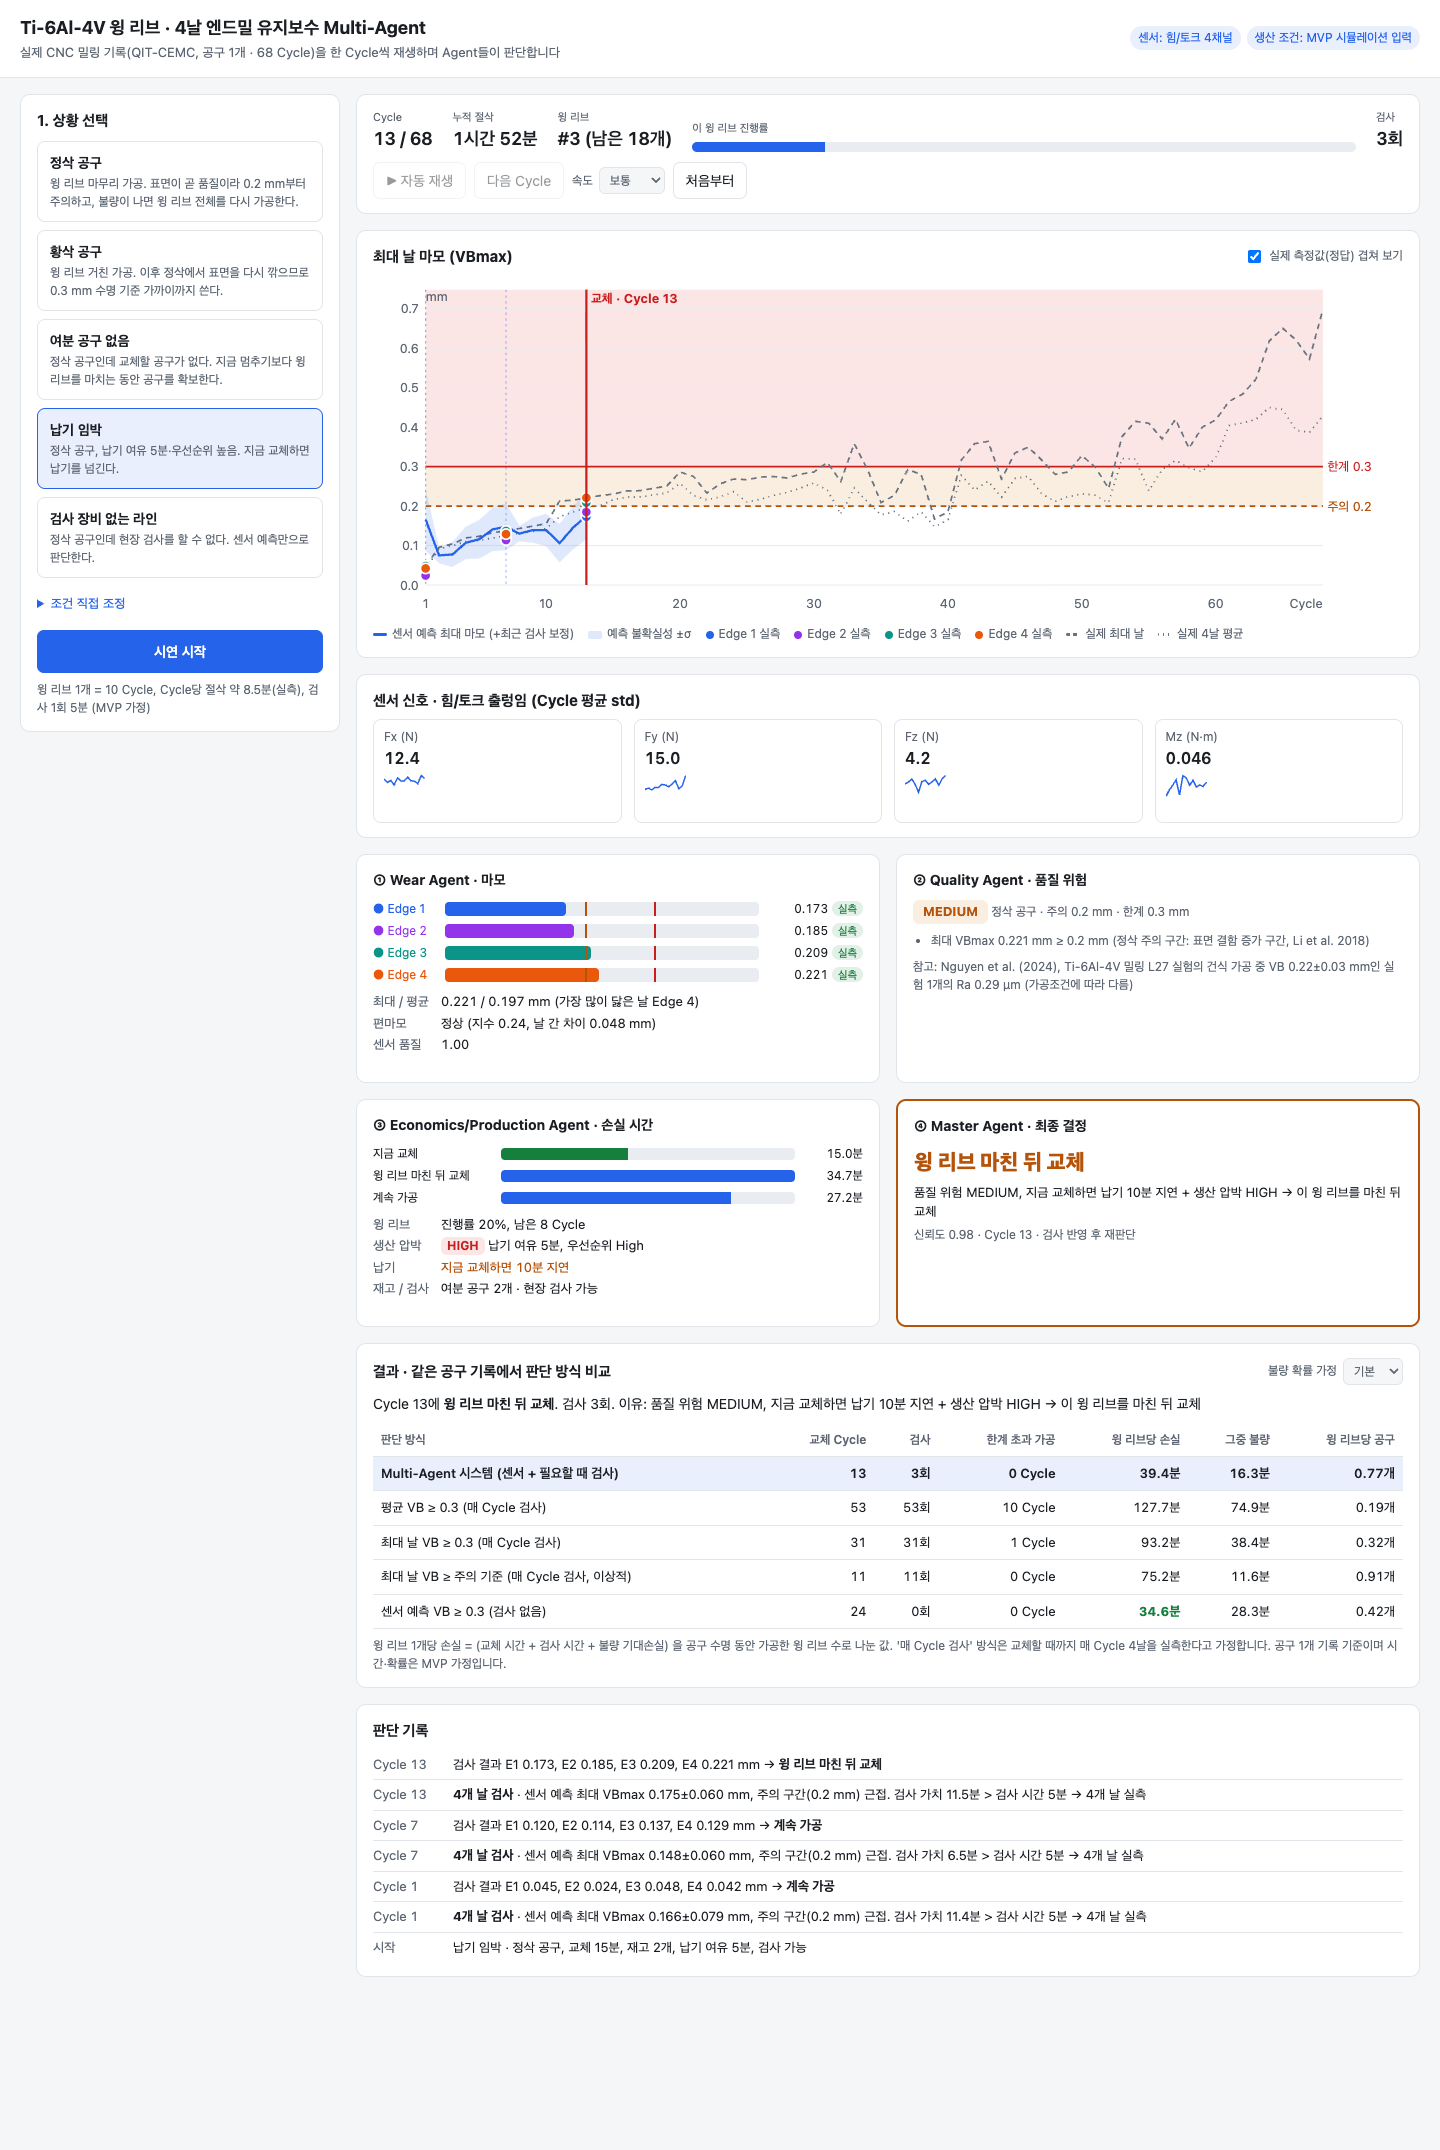
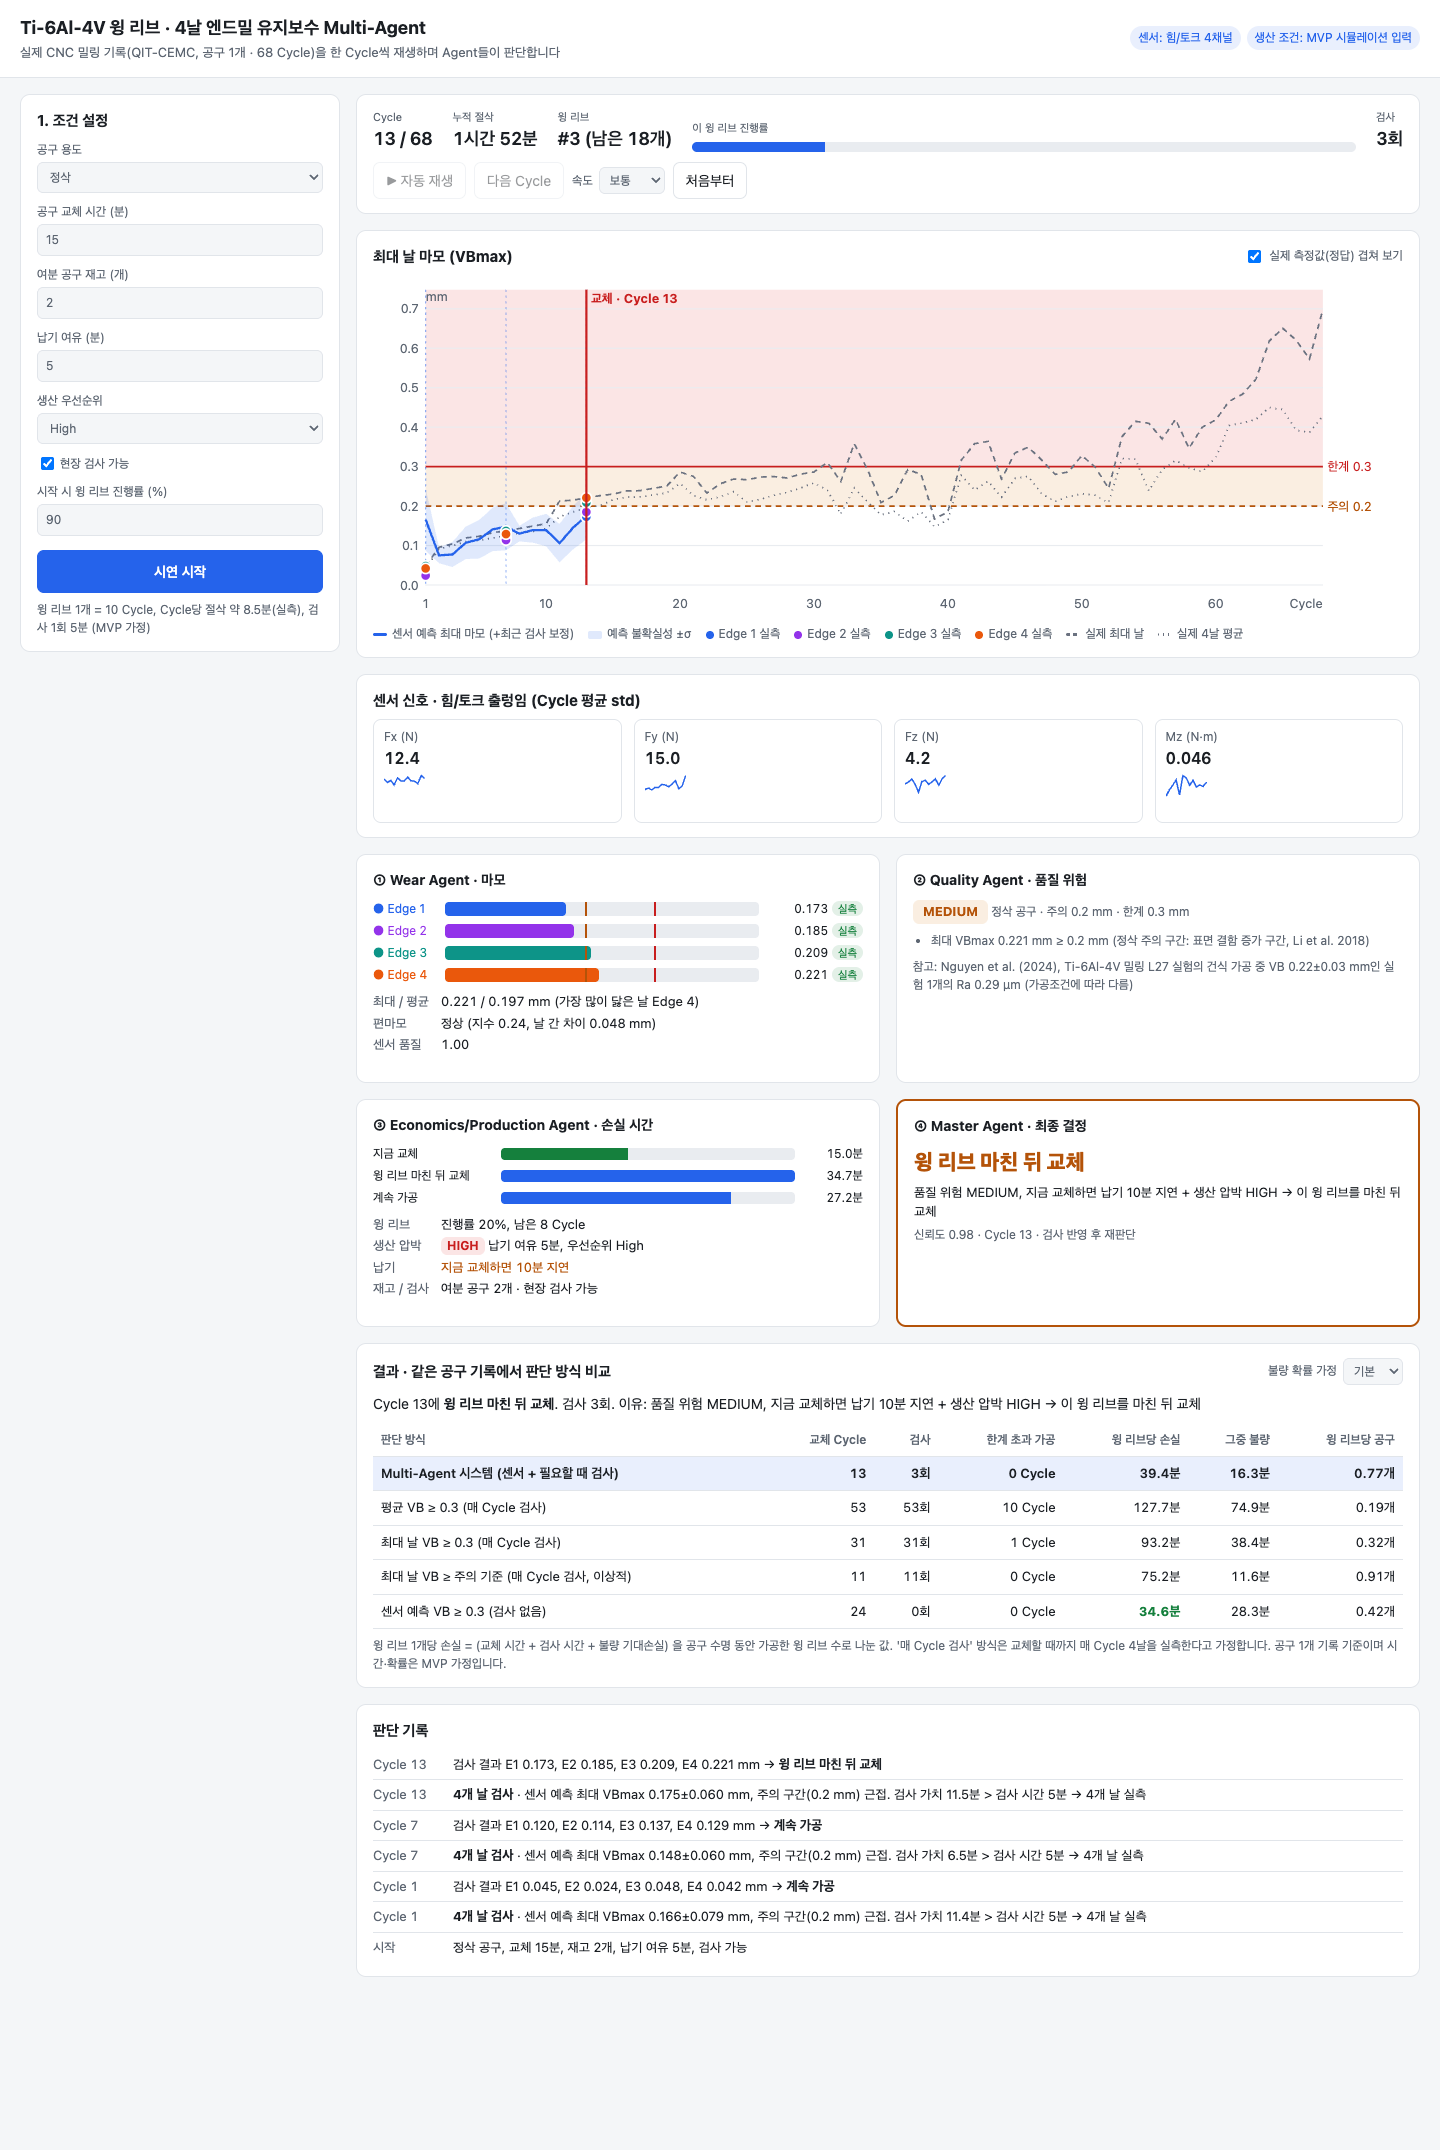
Web: replace preset list with an always-open condition form
- Tool purpose shows only 정삭/황삭; other fields default to the finishing scenario
- Chart caution line follows the selected tool purpose before starting
- Refresh README, verification record, and screenshots

Changed region(s): [[0.0, 0.0312, 0.25, 0.3428]]

diff --git a/src/web/static/app.js b/src/web/static/app.js
@@ -46,8 +46,7 @@ const S = {
 
 async function init() {
   S.meta = await api("GET", "/api/presets");
-  renderPresets();
-  selectPreset(S.meta.default);
+  fillDefaults();
   $("#startBtn").onclick = start;
   $("#stepBtn").onclick = () => step().catch(showError);
   $("#playBtn").onclick = togglePlay;
@@ -55,28 +54,15 @@ async function init() {
   $("#truthToggle").onchange = renderWearChart;
   $("#scale").onchange = renderComparison;
   $("#inspForm").onsubmit = submitInspection;
+  $("#customForm").elements.tool_purpose.onchange = () => { if (!S.sid) renderWearChart(); };
   renderWearChart();
   renderSensors();
 }
 
-function renderPresets() {
-  const box = $("#presets");
-  box.innerHTML = "";
-  for (const p of S.meta.presets) {
-    const b = document.createElement("button");
-    b.className = "preset";
-    b.setAttribute("role", "radio");
-    b.dataset.id = p.id;
-    b.innerHTML = `<strong>${p.name}</strong><span>${p.description}</span>`;
-    b.onclick = () => selectPreset(p.id);
-    box.appendChild(b);
-  }
-}
-
-function selectPreset(id) {
-  S.presetId = id;
-  document.querySelectorAll(".preset").forEach((b) => b.setAttribute("aria-checked", b.dataset.id === id));
-  const ctx = S.meta.presets.find((p) => p.id === id).context;
+// 조건 입력란을 기본 상황(정삭 공구 프리셋)의 값으로 채운다
+function fillDefaults() {
+  S.presetId = S.meta.default;
+  const ctx = S.meta.presets.find((p) => p.id === S.presetId).context;
   const f = $("#customForm");
   for (const key of ["tool_purpose", "change_time_min", "tool_stock", "due_slack_min", "production_priority", "process_progress_pct"]) {
     f.elements[key].value = ctx[key];
@@ -108,7 +94,7 @@ async function start() {
     if (!S.truth) S.truth = await api("GET", "/api/truth");
     setControls(true);
     const c = res.context;
-    addLog("시작", `${S.meta.presets.find((p) => p.id === S.presetId).name} · ${purposeLabel(c.tool_purpose)} 공구, 교체 ${c.change_time_min}분, ` +
+    addLog("시작", `${purposeLabel(c.tool_purpose)} 공구, 교체 ${c.change_time_min}분, ` +
       `재고 ${c.tool_stock}개, 납기 여유 ${c.due_slack_min}분, 검사 ${c.inspection_available ? "가능" : "불가"}`);
   } catch (e) {
     showError(e);
@@ -257,7 +243,7 @@ function renderWearChart() {
   const total = S.meta?.total_cycles ?? 68;
   const showTruth = $("#truthToggle").checked && S.truth;
   const ctx = S.records.at(-1)?.context;
-  const purpose = ctx?.tool_purpose ?? S.meta?.presets.find((p) => p.id === S.presetId)?.context.tool_purpose ?? "finishing";
+  const purpose = ctx?.tool_purpose ?? $("#customForm")?.elements.tool_purpose.value ?? "finishing";
   const caution = S.meta?.tool_purposes[purpose]?.caution_vb_mm ?? 0.2;
   const limit = S.meta?.vb_limit_mm ?? 0.3;
 

diff --git a/src/web/static/index.html b/src/web/static/index.html
@@ -21,16 +21,12 @@
 
   <div class="layout">
     <aside class="setup" id="setup">
-      <h2>1. 상황 선택</h2>
-      <div id="presets" class="presets" role="radiogroup" aria-label="시연 프리셋"></div>
-
-      <details id="custom" class="custom">
-        <summary>조건 직접 조정</summary>
-        <form id="customForm" class="form">
+      <h2>1. 조건 설정</h2>
+      <form id="customForm" class="form">
           <label>공구 용도
             <select name="tool_purpose">
-              <option value="finishing">정삭 (주의 0.2 mm, 불량 시 윙 리브 전체 재가공)</option>
-              <option value="roughing">황삭 (주의 0.25 mm, 불량 시 1 Cycle 재가공)</option>
+              <option value="finishing">정삭</option>
+              <option value="roughing">황삭</option>
             </select>
           </label>
           <label>공구 교체 시간 (분) <input name="change_time_min" type="number" min="1" max="120" step="1"></label>
@@ -41,8 +37,7 @@
           </label>
           <label class="check"><input name="inspection_available" type="checkbox"> 현장 검사 가능</label>
           <label>시작 시 윙 리브 진행률 (%) <input name="process_progress_pct" type="number" min="0" max="100" step="10"></label>
-        </form>
-      </details>
+      </form>
 
       <button id="startBtn" class="primary wide">시연 시작</button>
       <p class="hint">윙 리브 1개 = 10 Cycle, Cycle당 절삭 약 8.5분(실측), 검사 1회 5분 (MVP 가정)</p>

diff --git a/src/web/static/style.css b/src/web/static/style.css
@@ -77,15 +77,7 @@ button, select, input { font: inherit; color: inherit; }
 .setup { background: var(--panel); border: 1px solid var(--border); border-radius: var(--radius); padding: 14px 16px; align-self: start; position: sticky; top: 16px; }
 @media (max-width: 960px) { .setup { position: static; } }
 .setup h2 { margin-bottom: 10px; }
-.presets { display: flex; flex-direction: column; gap: 8px; margin-bottom: 12px; }
-.preset { text-align: left; padding: 10px 12px; border: 1px solid var(--border); border-radius: 8px; background: transparent; cursor: pointer; }
-.preset:hover { border-color: var(--accent); }
-.preset[aria-checked="true"] { border-color: var(--accent); background: var(--accent-soft); }
-.preset strong { display: block; font-size: 14px; }
-.preset span { display: block; font-size: 12px; color: var(--muted); margin-top: 2px; }
-.custom { margin-bottom: 12px; }
-.custom summary { cursor: pointer; color: var(--accent); font-size: 13px; padding: 4px 0; }
-.form { display: flex; flex-direction: column; gap: 8px; margin-top: 8px; }
+.form { display: flex; flex-direction: column; gap: 10px; margin: 8px 0 14px; }
 .form label { display: flex; flex-direction: column; gap: 3px; font-size: 12px; color: var(--muted); }
 .form input, .form select { padding: 6px 8px; border: 1px solid var(--border); border-radius: 6px; background: var(--bg); }
 .check { flex-direction: row !important; align-items: center; gap: 6px; }

diff --git a/docs/verification.md b/docs/verification.md
@@ -45,13 +45,15 @@
 
 | 시나리오 | 결과 |
 |---|---|
-| 프리셋 5개를 처음부터 끝까지 재생 | 위 터미널 결과와 동일, 비교표 5행 표시 |
+| 기본 조건 (정삭, 교체 15분, 재고 2, 납기 여유 360분, Low, 검사 가능, 진행률 90%) | Cycle 13 즉시 교체, 검사 3회 |
+| 황삭 + 검사 불가 | Cycle 24 즉시 교체 |
+| 정삭 + 재고 0 | Cycle 13 윙 리브 마친 뒤 교체 |
+| 정삭 + 납기 여유 5분 + 우선순위 High | Cycle 13 윙 리브 마친 뒤 교체 |
 | 첫 검사에서 Edge 2를 0.35 mm로 바꿔 입력 | Cycle 1에서 즉시 교체 |
-| 조건 직접 조정 (황삭 + 검사 불가) | Cycle 24 즉시 교체 |
 | 브라우저 콘솔 오류 | 없음 |
 | 밝은 / 어두운 화면 | 둘 다 정상 표시 |
 
-스크린샷: `docs/images/` (정삭 종료 화면, 납기 임박 종료 화면, 검사 창, 어두운 화면)
+스크린샷: `docs/images/` (기본 조건 종료 화면, 납기 임박 조건 종료 화면, 검사 창, 어두운 화면)
 
 ## 평가하는 분이 직접 확인하는 방법
 

diff --git a/README.md b/README.md
@@ -76,7 +76,7 @@ python3 -m venv .venv
 
 실제 68 Cycle을 한 Cycle씩 재생합니다.
 
-- 상황 프리셋 5개와 조건 직접 조정
+- 조건 설정: 공구 용도(정삭/황삭), 교체 시간, 여분 공구 재고, 납기 여유, 생산 우선순위, 현장 검사 가능 여부, 시작 진행률 (기본값은 정삭 공구 상황)
 - 마모 그래프 (센서 예측 ± 불확실성, 날별 실측점, 0.2/0.3 mm 기준선, 종료 후 실제 측정값 겹쳐 보기)
 - 힘/토크 센서 추이, Agent 4개의 판단 카드, 판단 기록
 - 검사 창: 실제 측정값이 미리 채워져 있고 발표자가 바꿀 수 있음 (예: 첫 검사에서 Edge 2를 0.35로 바꾸면 즉시 교체)
@@ -87,7 +87,7 @@ python3 -m venv .venv
 
 ## 주요 결과
 
-### 시연 프리셋별 판단 (실제 68 Cycle 재생)
+### 상황별 판단 (실제 68 Cycle 재생, 터미널 데모의 프리셋 = 웹에서 같은 조건 입력)
 
 | 프리셋 | 판단 | 이유 |
 |---|---|---|
